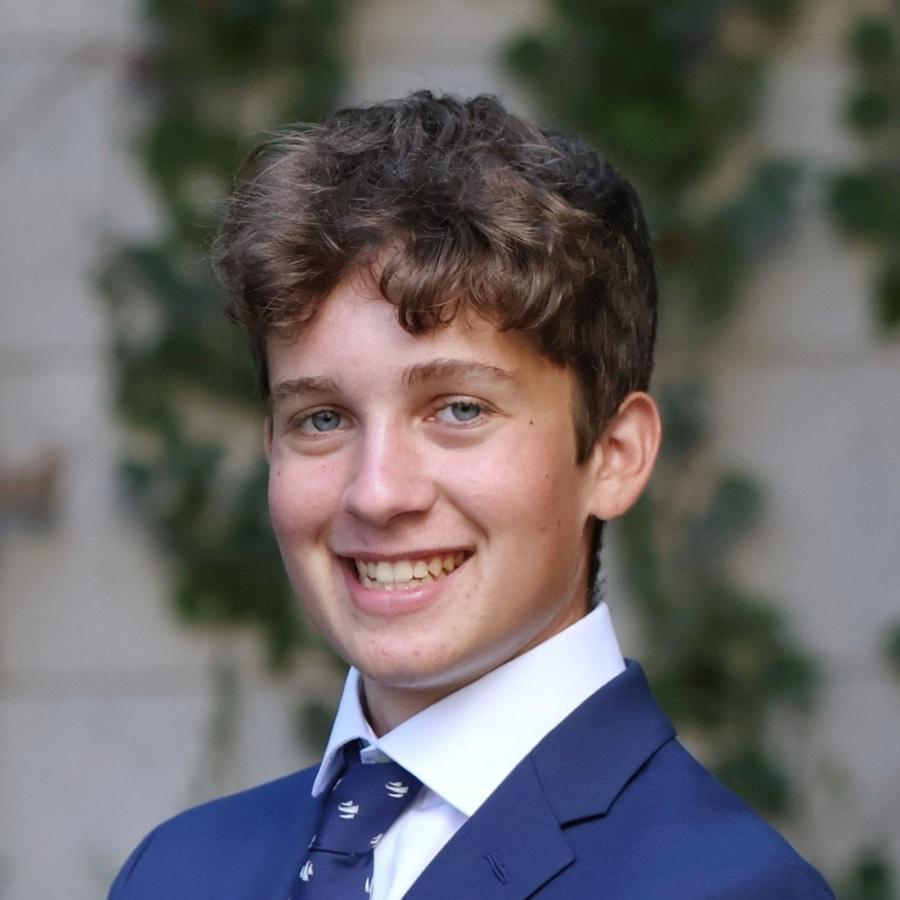
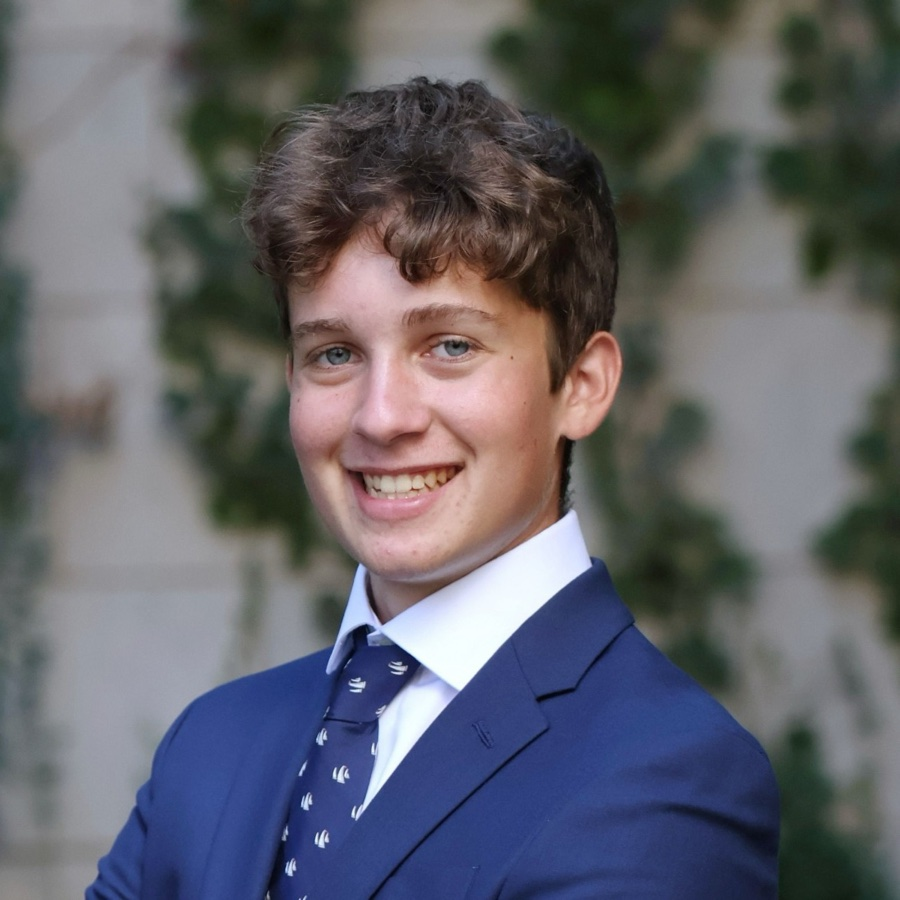
Widen John's headshot crop, remove placeholder desk heads

diff --git a/src/app/members/page.module.css b/src/app/members/page.module.css
@@ -59,13 +59,13 @@
   font-weight: 600;
 }
 
+/* Fixed columns, so a short row keeps normal card widths and sits at the left. */
 .heads {
-  display: flex;
-  flex-wrap: wrap;
+  display: grid;
+  grid-template-columns: repeat(auto-fill, minmax(min(240px, 100%), 1fr));
   gap: 20px;
 }
 .headCard {
-  flex: 1 1 240px;
   min-width: 0;
   border: 1.5px solid var(--ink);
   display: flex;

diff --git a/src/data/members.ts b/src/data/members.ts
@@ -49,7 +49,6 @@ export const deskHeads: DeskHead[] = [
     photo: "/headshot-john-colyer.jpg",
     linkedin: "https://www.linkedin.com/in/john-colyer/",
   },
-  ...Array.from({ length: 3 }, () => ({ name: "[Name]", desk: "[Desk name]" })),
 ];
 
 export const members: Member[] = [
